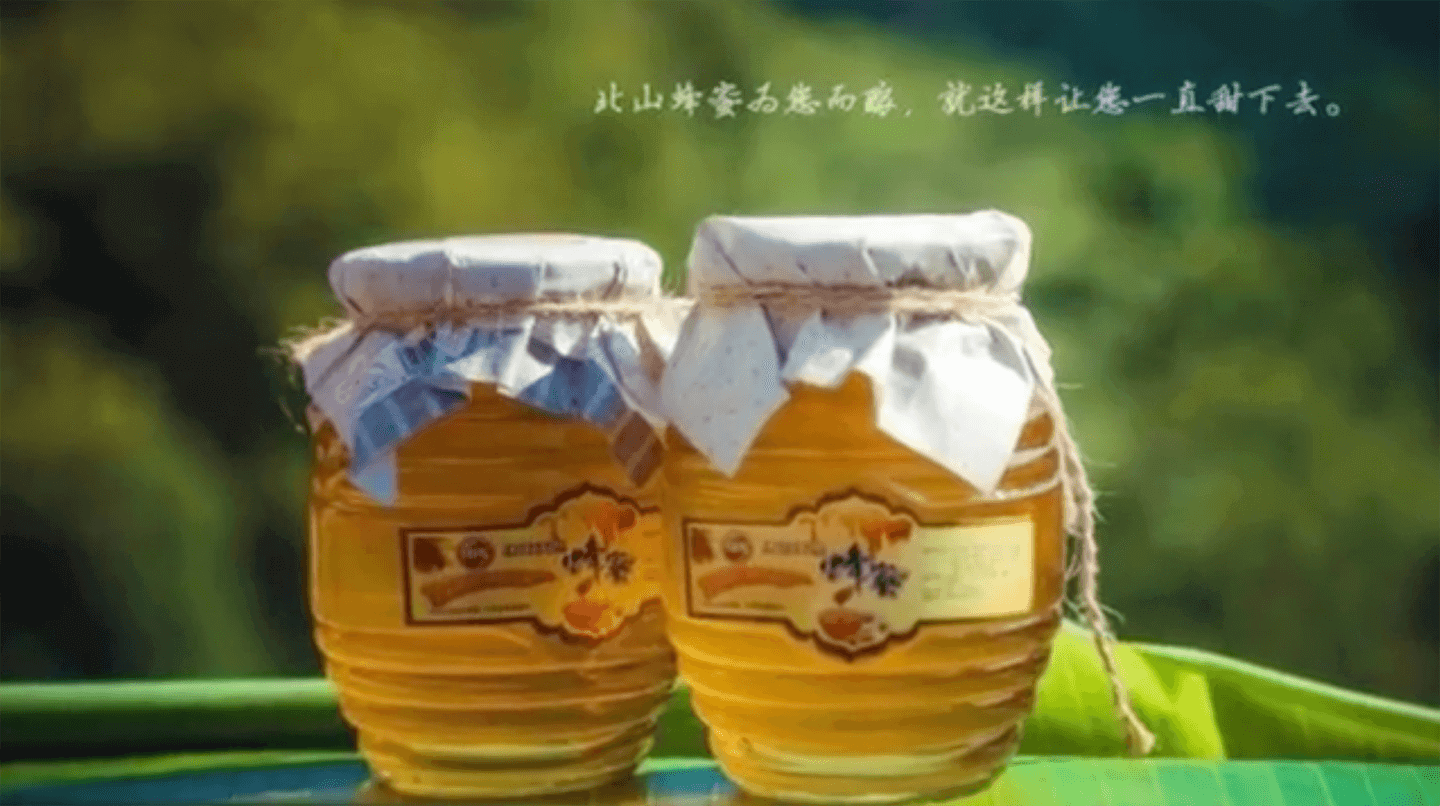
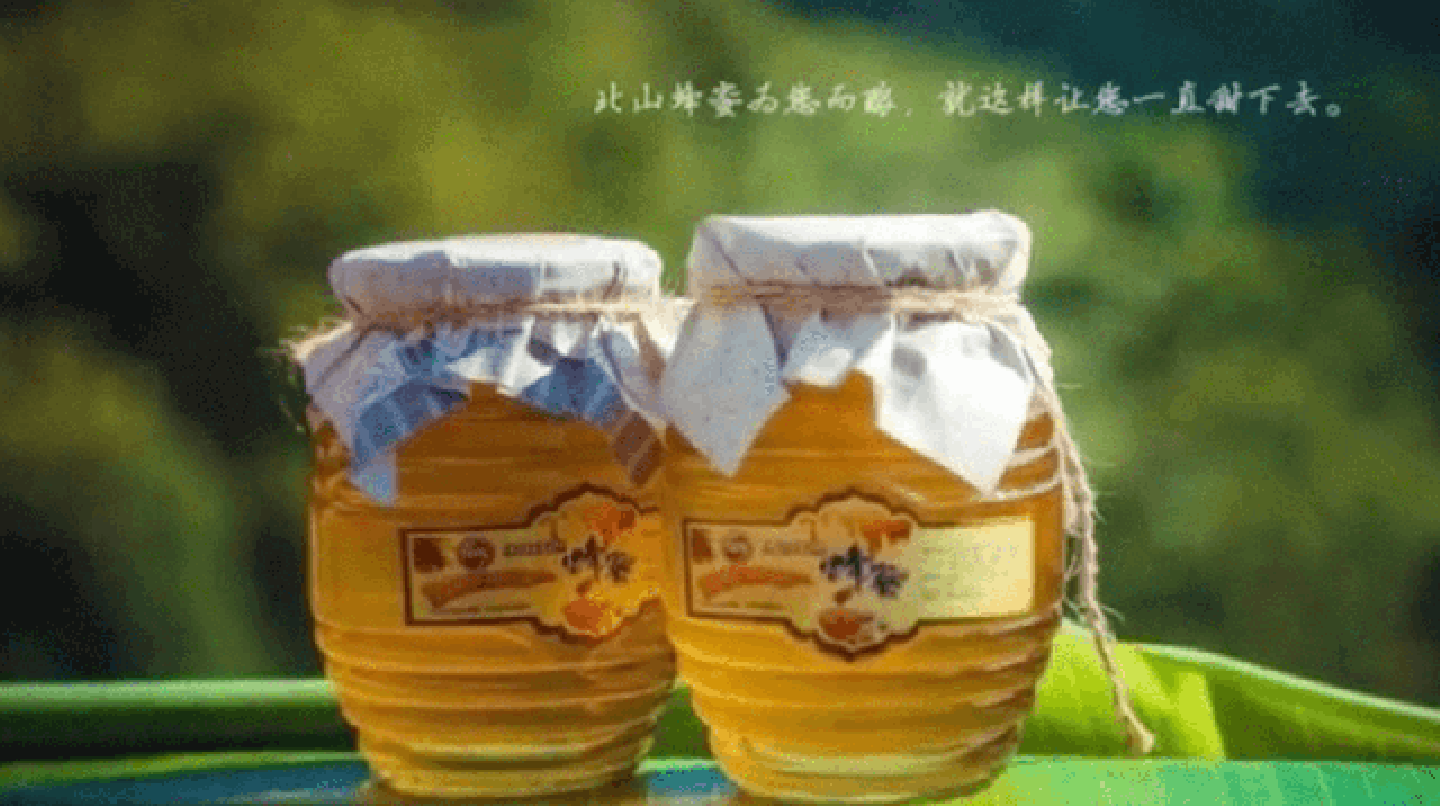
替换为手机尺寸的图片640px

diff --git a/index.html b/index.html
@@ -14,7 +14,7 @@
     }
 
     .footer-bg{
-       background: url('img/footer_bg.jpg') no-repeat;
+       background: url('img/footer_bg_640.png') no-repeat;
        /*background: #0e0e0e;*/
        background-size: cover;
        width: 100%;
@@ -42,11 +42,11 @@
        <div class="banner" id="b01">
         <div>
             <ul >
-                <li><a ><img src="img/banner1.png" height="300"></a></li>
-                <li><a ><img src="img/banner2.png" height="300"></a></li>
-                <li><a ><img src="img/banner3.png" height="300"></a></li>
-                <li><a ><img src="img/banner4.png" height="300"></a></li>
-                <li><a ><img src="img/banner5.png" height="300"></a></li>
+                <li><a ><img src="img/banner1_640.png" height="300"></a></li>
+                <li><a ><img src="img/banner2_640.png" height="300"></a></li>
+                <li><a ><img src="img/banner3_640.png" height="300"></a></li>
+                <li><a ><img src="img/banner4_640.png" height="300"></a></li>
+                <li><a ><img src="img/banner5_640.png" height="300"></a></li>
             </ul>
         </div>
     </div>
